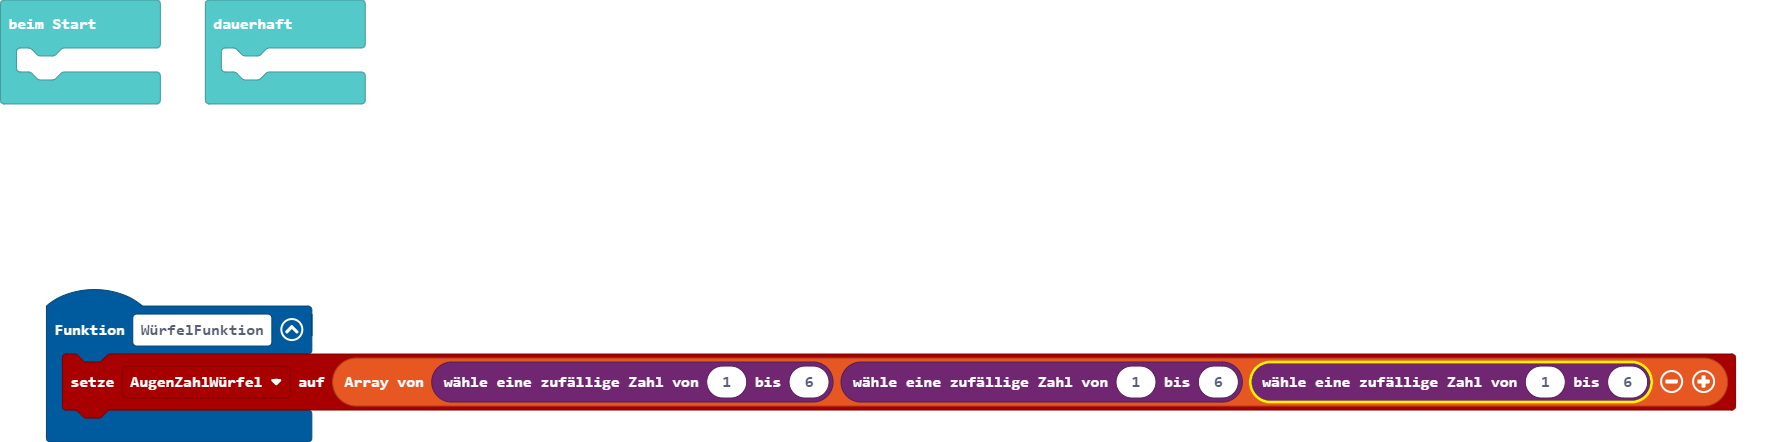
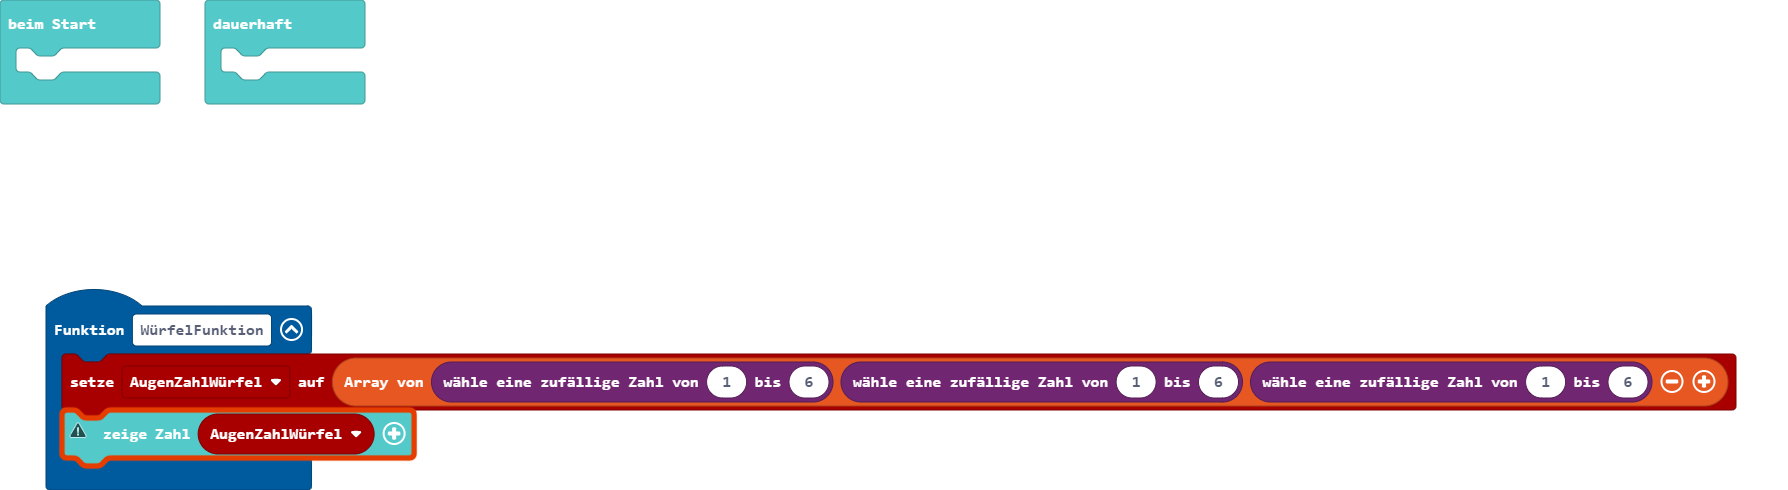
Aktualisiere main.blocks, main.ts

diff --git a/main.ts b/main.ts
@@ -1,6 +1,7 @@
 let AugenZahlWürfel: number[] = []
 function WürfelFunktion () {
     AugenZahlWürfel = [randint(1, 6), randint(1, 6), randint(1, 6)]
+    basic.showNumber(AugenZahlWürfel)
 }
 basic.forever(function () {
 	
